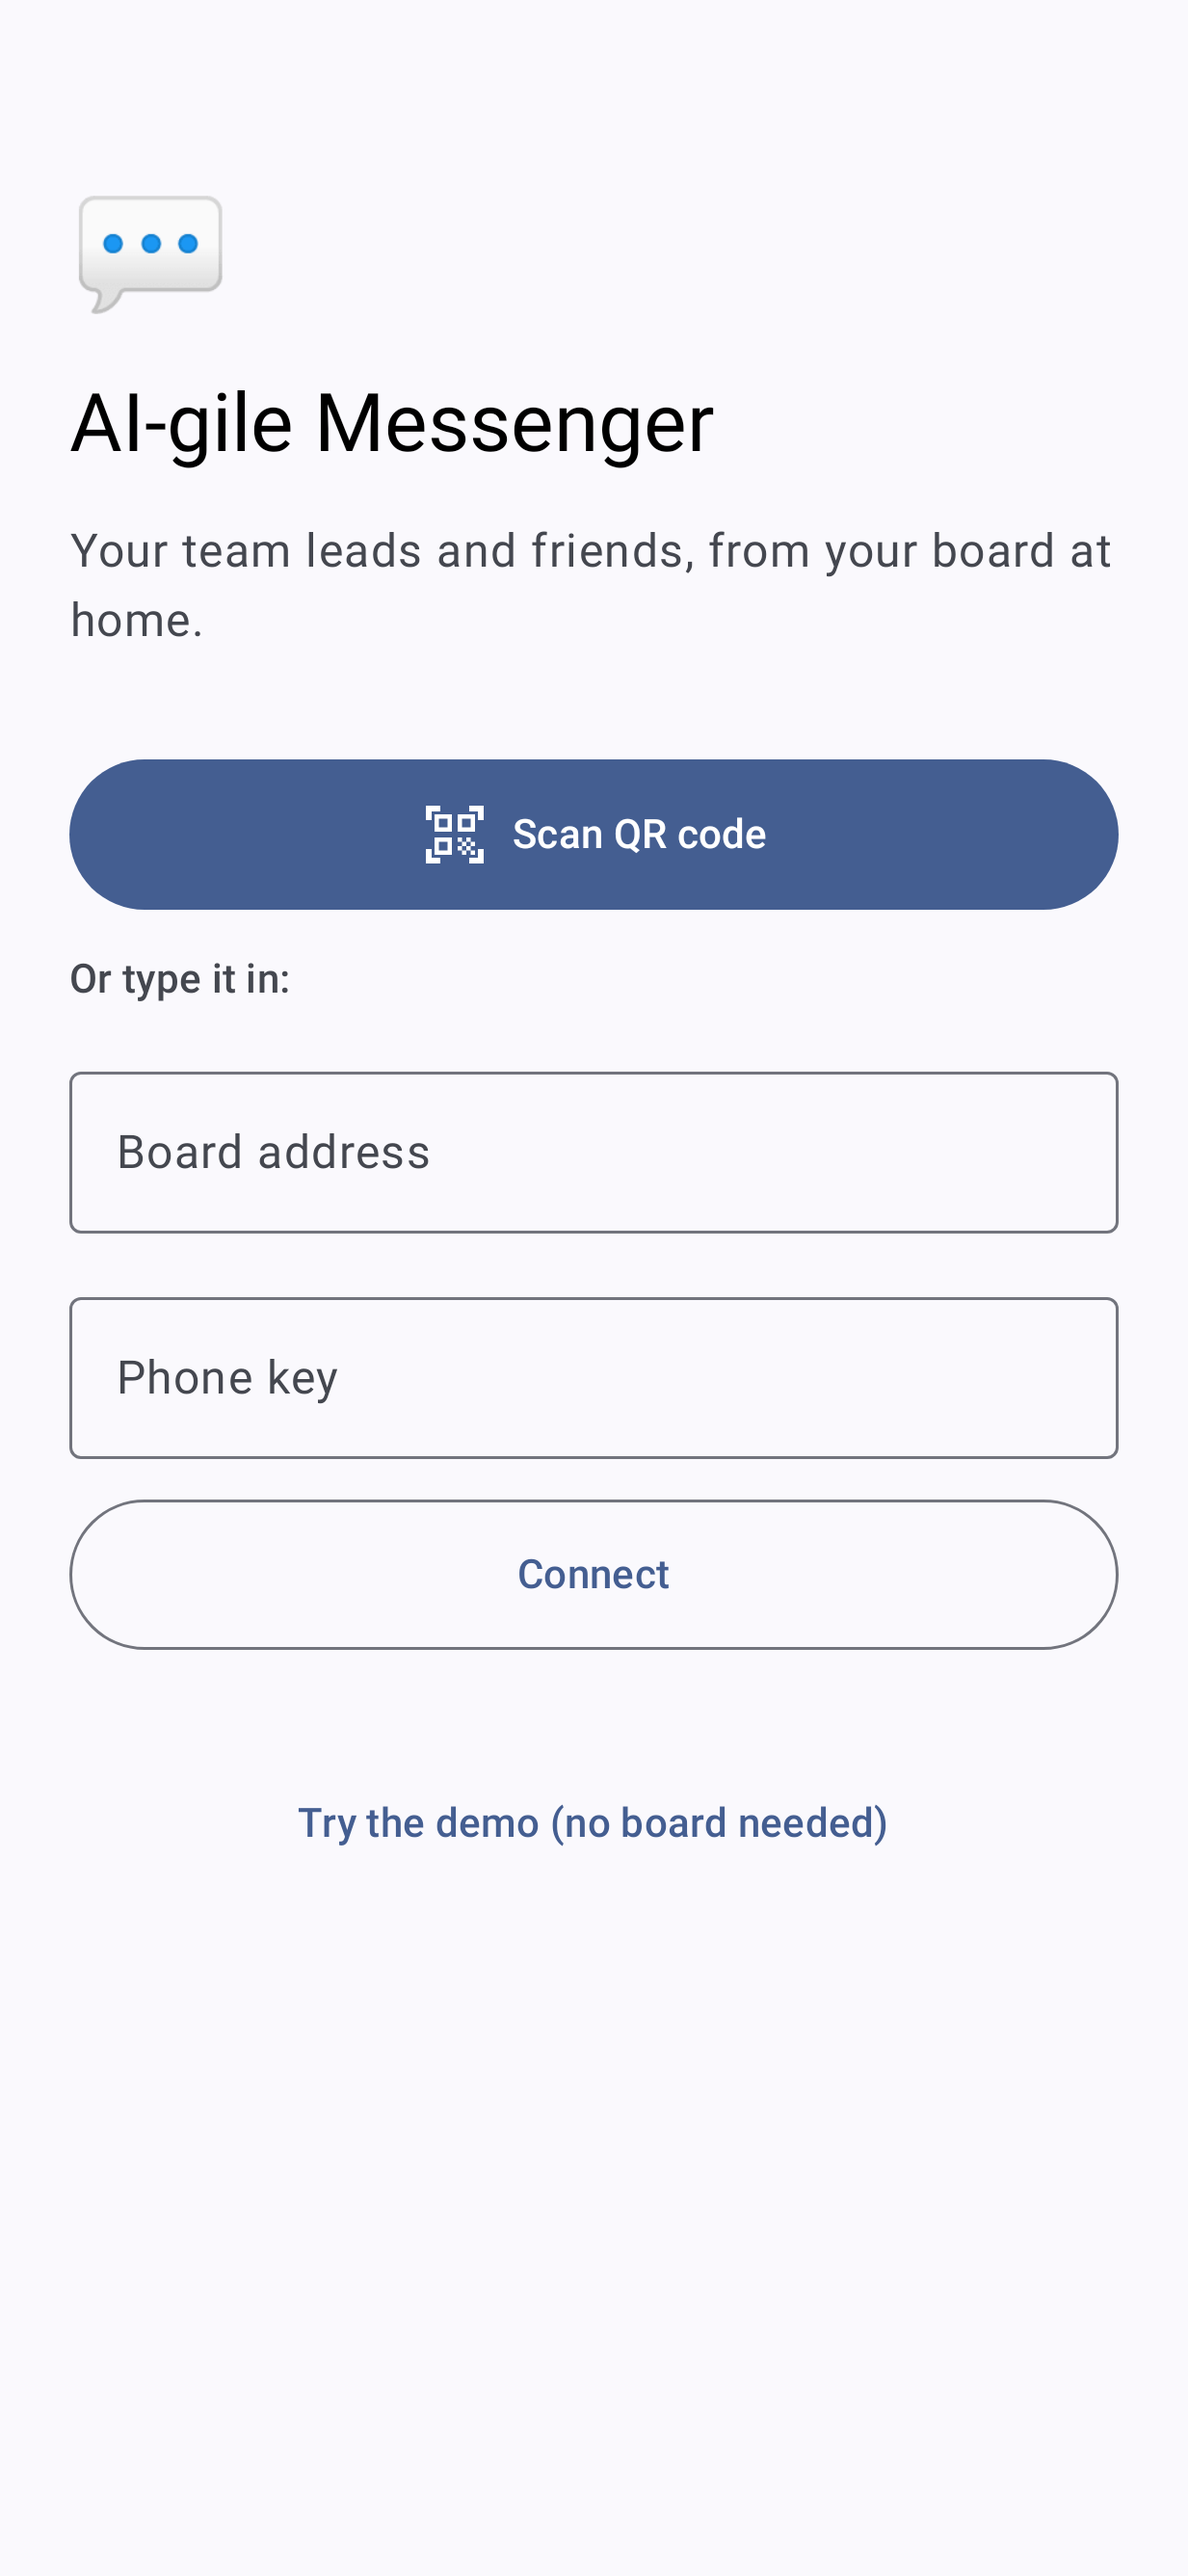
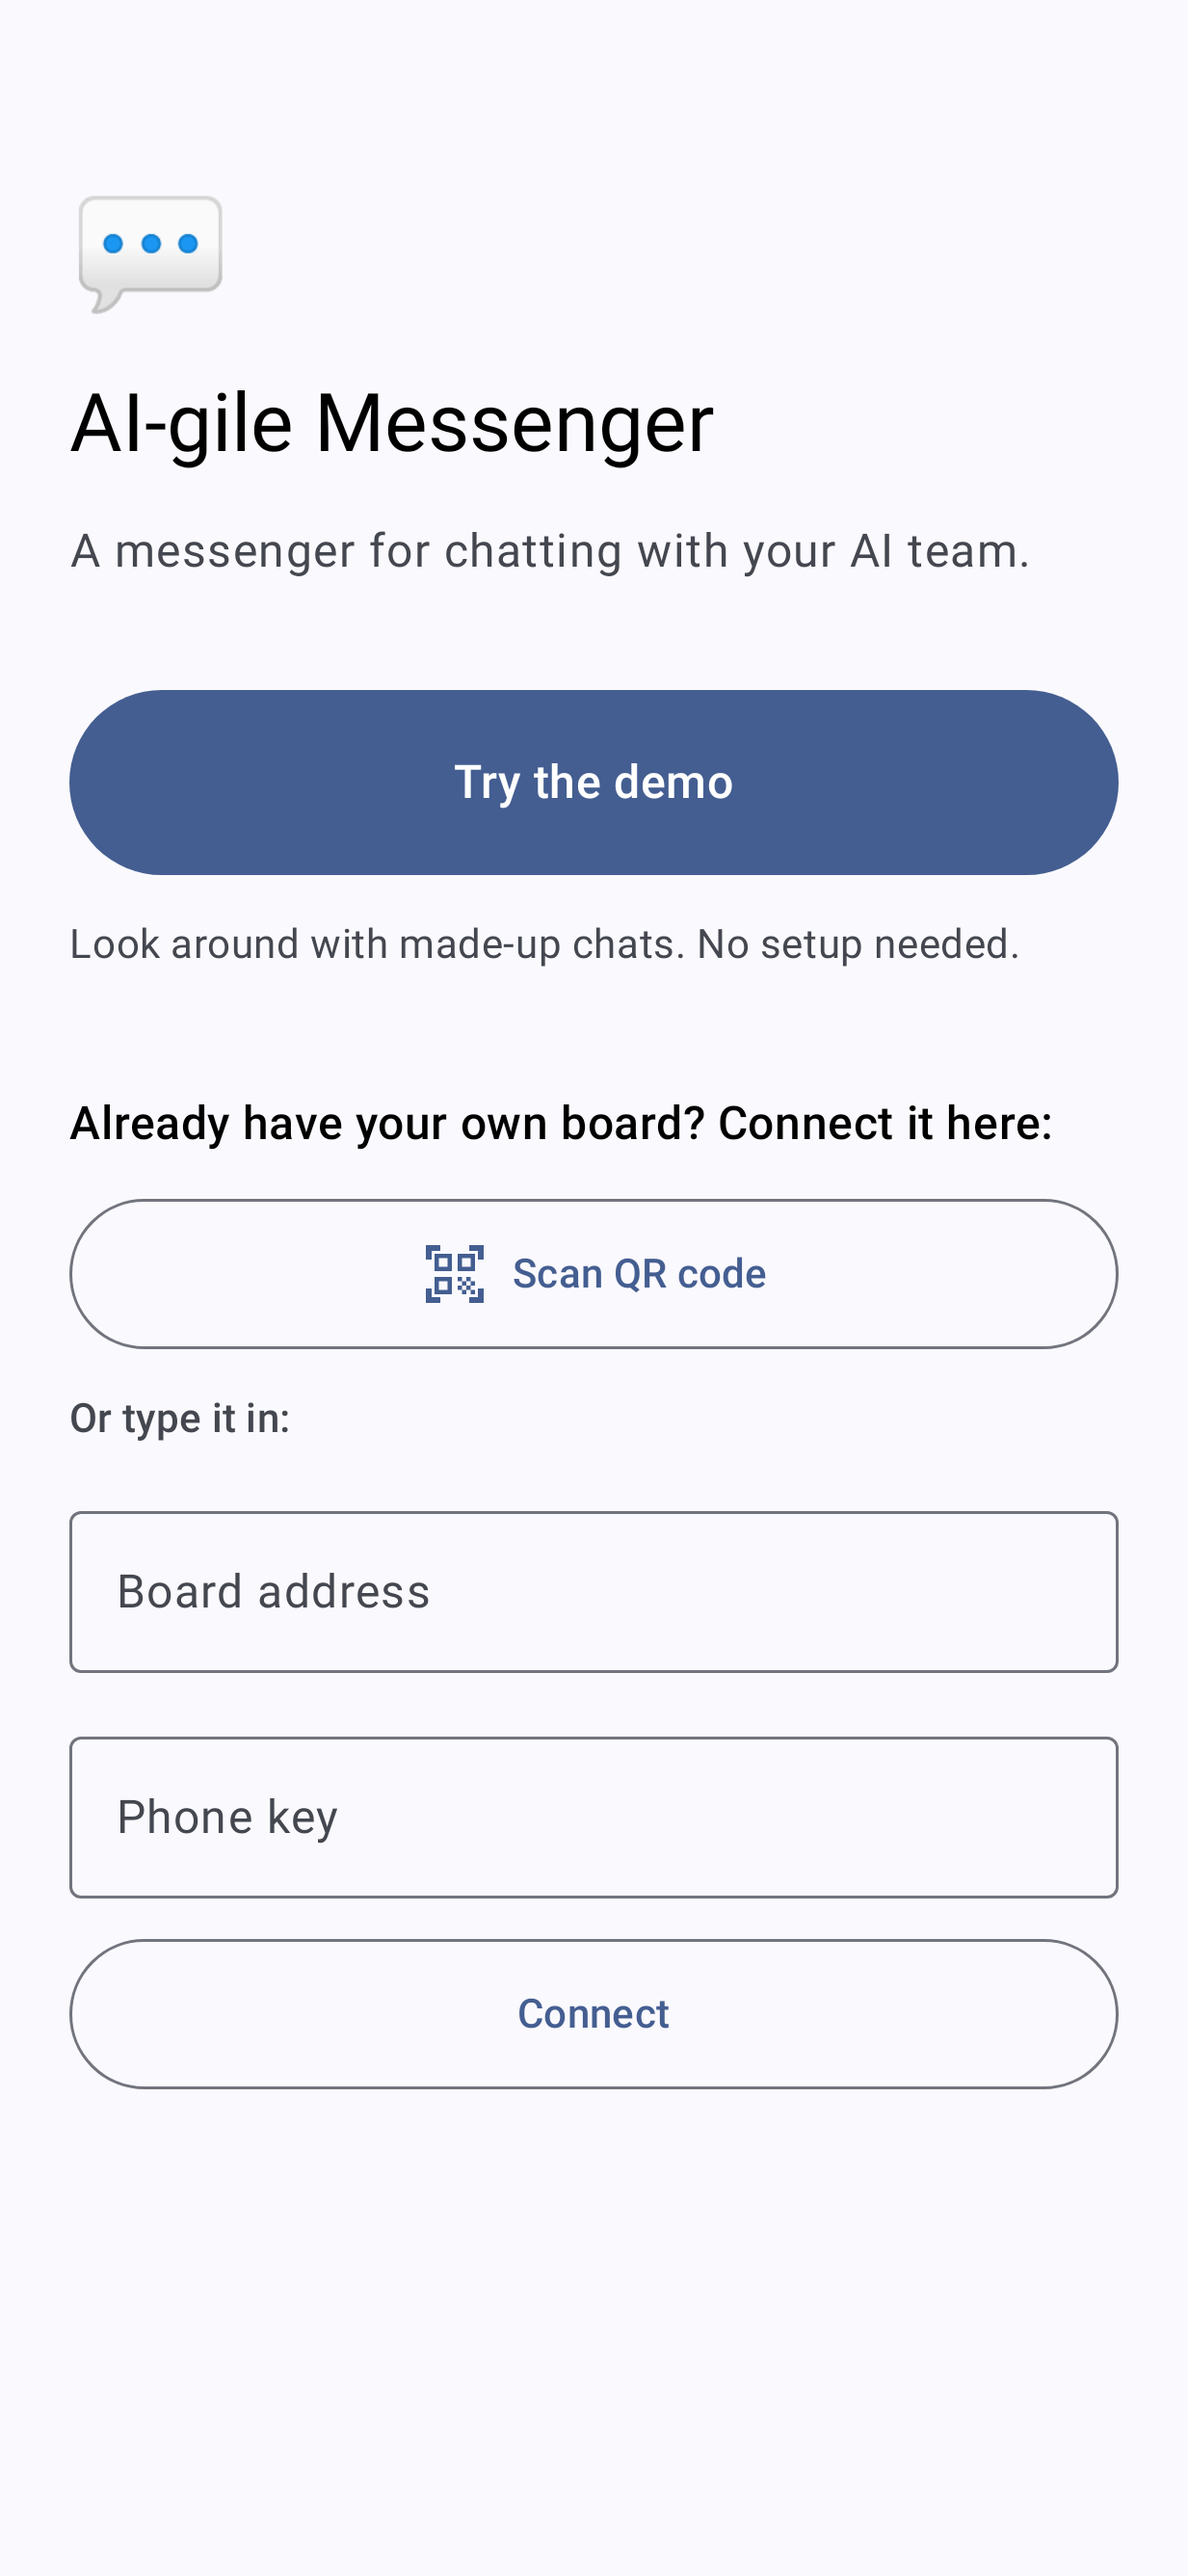
Connect screen in plain words; demo welcome tips (AII-275, AII-276)

diff --git a/app/src/main/java/com/smizflark/aigile/messenger/ui/ChatsScreen.kt b/app/src/main/java/com/smizflark/aigile/messenger/ui/ChatsScreen.kt
@@ -70,6 +70,7 @@ import com.smizflark.aigile.messenger.data.Pace
 import com.smizflark.aigile.messenger.data.Pause
 import com.smizflark.aigile.messenger.data.Repo
 import com.smizflark.aigile.messenger.data.Update
+import com.smizflark.aigile.messenger.data.Tips
 import com.smizflark.aigile.messenger.data.WhatsNew
 import com.smizflark.aigile.messenger.data.pinFirst
 import com.smizflark.aigile.messenger.data.mutedLast
@@ -170,6 +171,8 @@ fun ChatsScreen(repo: Repo, onOpen: (ChatRef) -> Unit, onNew: () -> Unit, onSett
     LaunchedEffect(Unit) { if (repo.store.lastSeenVersion == 0) repo.store.lastSeenVersion = build }
     fun seeWhatsNew() { repo.store.lastSeenVersion = build; whatsNew = false }
 
+    var tips by remember { mutableStateOf(Tips.show(repo.store.demo, repo.store.tipsSeen)) }   // AII-276
+
     val list = androidx.compose.foundation.lazy.rememberLazyListState()
     Scaffold(
         topBar = {
@@ -230,6 +233,19 @@ fun ChatsScreen(repo: Repo, onOpen: (ChatRef) -> Unit, onNew: () -> Unit, onSett
                             style = MaterialTheme.typography.bodyMedium)
                         IconButton(onClick = { seeWhatsNew() }, modifier = Modifier.testTag("whatsNewClose")) {
                             Icon(Icons.Default.Close, stringResource(R.string.whats_new_close), tint = MaterialTheme.colorScheme.onPrimaryContainer)
+                        }
+                    }
+                }
+                if (tips) item {
+                    Row(Modifier.fillMaxWidth().background(MaterialTheme.colorScheme.primaryContainer).testTag("tips").padding(start = 16.dp, end = 8.dp, top = 8.dp, bottom = 4.dp),
+                        verticalAlignment = Alignment.CenterVertically) {
+                        Column(Modifier.weight(1f)) {
+                            listOf(R.string.tip_1, R.string.tip_2, R.string.tip_3).forEach {
+                                Text(stringResource(it), color = MaterialTheme.colorScheme.onPrimaryContainer, style = MaterialTheme.typography.bodyMedium)
+                            }
+                        }
+                        androidx.compose.material3.TextButton(onClick = { repo.store.tipsSeen = true; tips = false }, modifier = Modifier.testTag("tipsGotIt")) {
+                            Text(stringResource(R.string.tips_got_it))
                         }
                     }
                 }

diff --git a/app/src/main/java/com/smizflark/aigile/messenger/ui/ConnectScreen.kt b/app/src/main/java/com/smizflark/aigile/messenger/ui/ConnectScreen.kt
@@ -28,7 +28,6 @@ import androidx.compose.material3.MaterialTheme
 import androidx.compose.material3.OutlinedButton
 import androidx.compose.material3.OutlinedTextField
 import androidx.compose.material3.Text
-import androidx.compose.material3.TextButton
 import androidx.compose.runtime.Composable
 import androidx.compose.runtime.getValue
 import androidx.compose.runtime.mutableStateOf
@@ -92,8 +91,17 @@ fun ConnectScreen(repo: Repo, prefill: Pair<String, String>?, onDone: () -> Unit
         Text(stringResource(R.string.connect_tagline), style = MaterialTheme.typography.bodyLarge,
             color = MaterialTheme.colorScheme.onSurfaceVariant)
         Spacer(Modifier.height(8.dp))
-
+        // AII-275: the demo comes first and big; connecting a board is below it, in plain words.
         Button(
+            onClick = { repo.startDemo(); onDone() },
+            modifier = Modifier.fillMaxWidth().heightIn(min = 64.dp).testTag("try-demo"), enabled = !busy,
+        ) { Text(stringResource(R.string.try_demo), style = MaterialTheme.typography.titleMedium) }
+        Text(stringResource(R.string.connect_demo_note), style = MaterialTheme.typography.bodyMedium,
+            color = MaterialTheme.colorScheme.onSurfaceVariant)
+        Spacer(Modifier.height(12.dp))
+        Text(stringResource(R.string.connect_own_board), style = MaterialTheme.typography.titleMedium)
+
+        OutlinedButton(
             onClick = { scan.launch(ScanOptions().setPrompt(scanPrompt).setBeepEnabled(false).setOrientationLocked(false)) },
             modifier = Modifier.fillMaxWidth().heightIn(min = 52.dp), enabled = !busy,
         ) {
@@ -129,10 +137,6 @@ fun ConnectScreen(repo: Repo, prefill: Pair<String, String>?, onDone: () -> Unit
         error?.let { Text(it, color = MaterialTheme.colorScheme.error, modifier = Modifier.testTag("error")) }
         OutlinedButton(onClick = ::connect, enabled = !busy, modifier = Modifier.fillMaxWidth().heightIn(min = 52.dp)) {
             if (busy) CircularProgressIndicator(Modifier.size(20.dp), strokeWidth = 2.dp) else Text(stringResource(R.string.connect))
-        }
-        Spacer(Modifier.height(8.dp))
-        TextButton(onClick = { repo.startDemo(); onDone() }, modifier = Modifier.fillMaxWidth()) {
-            Text(stringResource(R.string.try_demo))
         }
     }
 }

diff --git a/app/src/test/java/com/smizflark/aigile/messenger/screens/ChatsListShotTest.kt b/app/src/test/java/com/smizflark/aigile/messenger/screens/ChatsListShotTest.kt
@@ -80,6 +80,14 @@ class ChatsListShotTest : ShotBase() {
         rule.onNodeWithTag("whatsNewClose").performClick()
         rule.onNodeWithTag("whatsNew").assertDoesNotExist()
     }
+    @Test fun welcomeTipsLight() {   // AII-276
+        repo.store.tipsSeen = false
+        shot("chats_tips", false) { ChatsScreen(repo, {}, {}, {}) }
+        rule.onNodeWithTag("tips").assertExists()
+        rule.onNodeWithTag("tipsGotIt").performClick()
+        rule.onNodeWithTag("tips").assertDoesNotExist()
+        assert(repo.store.tipsSeen)
+    }
     @Test fun noWhatsNewOnNewInstall() {
         rule.setContent { MessengerTheme { ChatsScreen(repo, {}, {}, {}, build = 101) } }
         rule.onNodeWithTag("whatsNew").assertDoesNotExist()

diff --git a/app/src/test/java/com/smizflark/aigile/messenger/screens/ShotBase.kt b/app/src/test/java/com/smizflark/aigile/messenger/screens/ShotBase.kt
@@ -30,6 +30,7 @@ abstract class ShotBase {
         repo = Repo(ApplicationProvider.getApplicationContext<Application>())
         repo.startDemo()
         chats = runBlocking { repo.chats() }
+        repo.store.tipsSeen = true   // AII-276: welcome tips only in their own shot
         repo.store.updateChecked = Now.millis()   // AII-132: no GitHub call in screenshot tests
         // AII-179: Settings loads the saved settings (quick replies on) afresh each test; every other shot keeps them off as before.
         Appearance.look = null; Appearance.quickReplies = false; Appearance.replies = emptyList()

diff --git a/app/src/main/java/com/smizflark/aigile/messenger/data/Store.kt b/app/src/main/java/com/smizflark/aigile/messenger/data/Store.kt
@@ -203,6 +203,11 @@ class Store(context: Context) {
         get() = settings.getInt("lastSeenVersion", 0)
         set(v) = settings.edit().putInt("lastSeenVersion", v).apply()
 
+    /** Demo welcome tips (AII-276): true once Got it was tapped. */
+    var tipsSeen: Boolean
+        get() = settings.getBoolean("tipsSeen", false)
+        set(v) = settings.edit().putBoolean("tipsSeen", v).apply()
+
     var lastSync: Long
         get() = prefs.getLong("lastSync", 0)
         set(v) = prefs.edit().putLong("lastSync", v).apply()

diff --git a/app/src/test/java/com/smizflark/aigile/messenger/data/TipsTest.kt b/app/src/test/java/com/smizflark/aigile/messenger/data/TipsTest.kt
@@ -1,0 +1,11 @@
+package com.smizflark.aigile.messenger.data
+
+import org.junit.Assert.assertFalse
+import org.junit.Assert.assertTrue
+import org.junit.Test
+
+class TipsTest {
+    @Test fun firstDemoOpenShows() = assertTrue(Tips.show(demo = true, seen = false))
+    @Test fun afterGotItHidden() = assertFalse(Tips.show(demo = true, seen = true))
+    @Test fun realBoardNeverShows() = assertFalse(Tips.show(demo = false, seen = false))
+}

diff --git a/app/src/main/java/com/smizflark/aigile/messenger/data/Tips.kt b/app/src/main/java/com/smizflark/aigile/messenger/data/Tips.kt
@@ -1,0 +1,6 @@
+package com.smizflark.aigile.messenger.data
+
+/** Welcome tips (AII-276): three small tips at the top of the chats list, in the demo, until Got it is tapped. */
+object Tips {
+    fun show(demo: Boolean, seen: Boolean) = demo && !seen
+}

diff --git a/docs/CODEMAP.md b/docs/CODEMAP.md
@@ -49,6 +49,7 @@ Kotlin under `app/src/main/java/com/smizflark/aigile/messenger/` (paths below ar
 - data/UndoSend.kt: a sent message held 5 or 10 seconds (Settings, AII-233) with an Undo bar (AII-202); used by ui/ChatScreen.kt (helpers in ui/ChatUndoSend.kt).
 - data/Swipe.kt: what a swipe on a chat row does; choices include Remind me in 1 hour (AII-257).
 - data/WhatsNew.kt: What's new bar (AII-268): top of the chats list on the first open after the version code changes (never on a new install); tap opens About, X closes; last seen version in Store.
+- data/Tips.kt: demo welcome tips (AII-276): three tips at the top of the chats list until Got it; Store tipsSeen. The Connect screen leads with a big Try the demo button (AII-275).
 - data/Update.kt: 'New version' bar: latest GitHub release (tag build-N = versionCode), checked once a day.
 
 ## ui/ (Compose screens)
